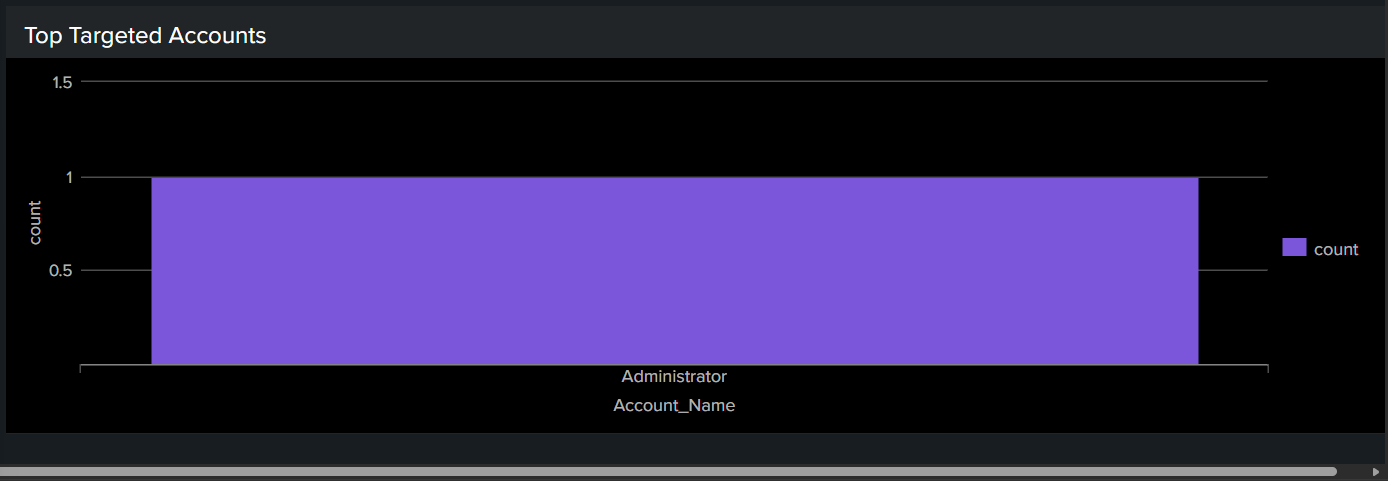
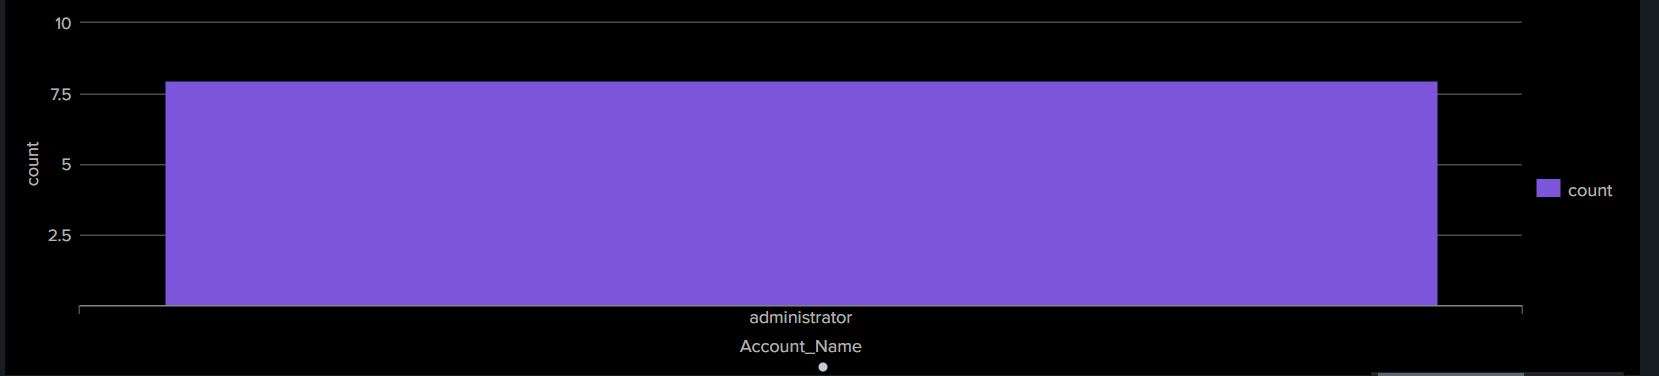
Fix dashboard queries and update panel screenshots with fresh attack data

diff --git a/06-dashboards/dashboard-01-brute-force-detection/README.md b/06-dashboards/dashboard-01-brute-force-detection/README.md
@@ -13,7 +13,7 @@ Displays failed login attempts grouped by hour across a 24-hour window. A single
 **SPL Query:**
 
 ```
-index=main EventCode=4625 earliest=-1d@d latest=@d | timechart span=1h count
+index=main EventCode=4625 | timechart span=1h count
 ```
 
 ![Failed Logins Over Time](screenshots/dashboard-01-panel-01-failed-logins-over-time.png)
@@ -27,7 +27,7 @@ Ranks source IP addresses by total failed login count. A single IP responsible f
 **SPL Query:**
 
 ```
-index=main EventCode=4625 earliest=-1d@d latest=@d | stats count by Source_Network_Address | sort -count
+index=main EventCode=4625 | stats count by Source_Network_Address | sort -count
 ```
 
 ![Top Source IPs Generating Failed Logins](screenshots/dashboard-01-panel-02-top-source-ips.png)
@@ -41,8 +41,7 @@ Shows which accounts are being targeted most frequently. Attackers commonly targ
 **SPL Query:**
 
 ```
-index=main EventCode=4625 earliest=-1d@d latest=@d | stats count by Account_Name | search Account_Name=administrator
+index=main EventCode=4625 | stats count by Account_Name | search Account_Name!="-" | sort -count
 ```
 
 ![Top Targeted Accounts](screenshots/dashboard-01-panel-03-top-targeted-accounts.png)
-